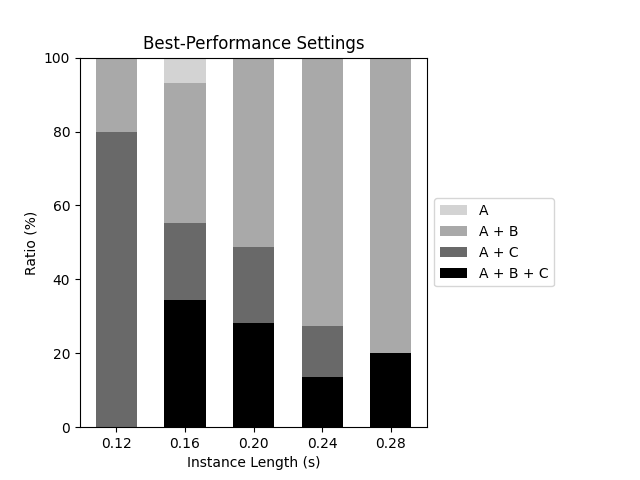
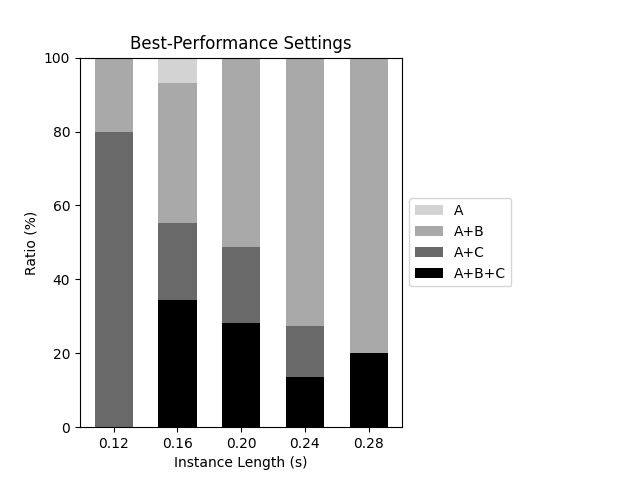
update

Changed region(s): [[0.1875, 0.0625, 0.875, 1.0], [0.1562, 0.9062, 0.2188, 0.9375]]

diff --git a/scripts/result_visualizer.py b/scripts/result_visualizer.py
@@ -127,19 +127,19 @@ def create_histogram_count(save_path, single_instance_values, multi_instance_val
 
     p1 = ax.bar(labels, O1_count, width, bottom=[a + b + c for a, b, c in zip(O1_O2_count, O1_O3_count, O1_O2_O3_count)], \
             label='A', color='lightgrey')
-    p2 = ax.bar(labels, O1_O2_count, width, bottom=[a + b for a, b in zip(O1_O3_count, O1_O2_O3_count)], label='A + B',\
+    p2 = ax.bar(labels, O1_O2_count, width, bottom=[a + b for a, b in zip(O1_O3_count, O1_O2_O3_count)], label='A+B',\
             color='darkgray')
     p3 = ax.bar(labels, O1_O3_count, width, bottom=O1_O2_O3_count,\
-            label='A + C', color='dimgray')
+            label='A+C', color='dimgray')
     p4 = ax.bar(labels, O1_O2_O3_count, width, \
-            label='A + B + C', color='black')
+            label='A+B+C', color='black')
 
     ax.set_xlabel('Instance Length (s)')
     ax.set_ylabel('Ratio (%)')
     ax.set_title('Best-Performance Settings')
     
     box = ax.get_position()
-    ax.set_position([box.x0, box.y0, box.width * 0.7, box.height])
+    ax.set_position([box.x0, box.y0, box.width * 0.65, box.height])
     
     ax.legend(loc='center left', bbox_to_anchor=(1, 0.5))
 
